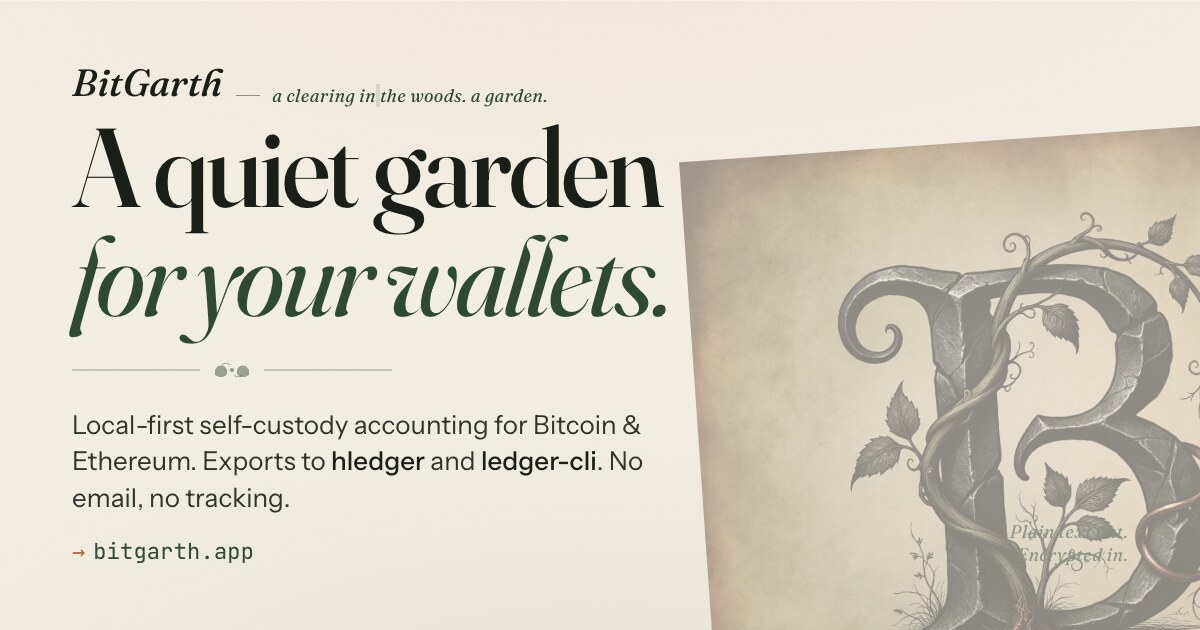
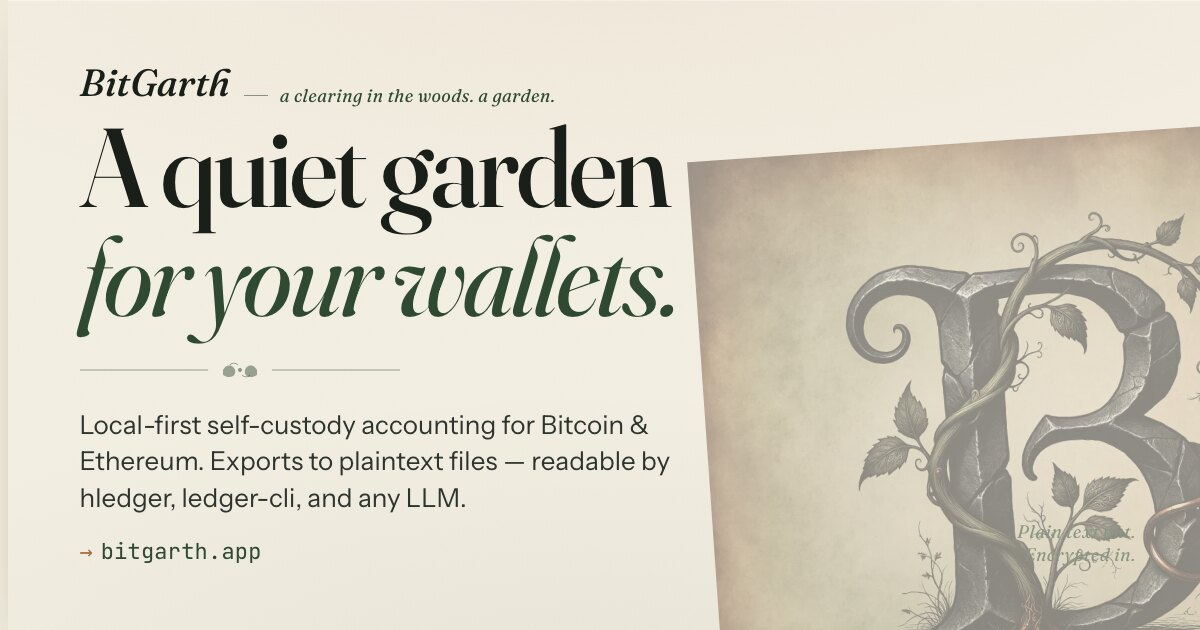
Update og description

diff --git a/index.html b/index.html
@@ -14,7 +14,7 @@
   <meta property="og:site_name" content="BitGarth" />
   <meta property="og:url" content="https://bitgarth.app/" />
   <meta property="og:title" content="BitGarth — a quiet garden for your wallets" />
-  <meta property="og:description" content="Local-first self-custody accounting for Bitcoin and Ethereum. Exports to hledger and ledger-cli. No email required for the app." />
+  <meta property="og:description" content="Local-first self-custody accounting for Bitcoin &amp; Ethereum. Exports to plaintext files — readable by hledger, ledger-cli, and any LLM." />
   <meta property="og:image" content="https://bitgarth.app/assets/og-card.jpg" />
   <meta property="og:image:type" content="image/jpeg" />
   <meta property="og:image:width" content="1200" />
@@ -26,7 +26,7 @@
   <meta name="twitter:card" content="summary_large_image" />
   <meta name="twitter:site" content="@BitGarth" />
   <meta name="twitter:title" content="BitGarth — a quiet garden for your wallets" />
-  <meta name="twitter:description" content="Local-first self-custody accounting for Bitcoin and Ethereum. Exports to hledger and ledger-cli. No email required for the app." />
+  <meta name="twitter:description" content="Local-first self-custody accounting for Bitcoin &amp; Ethereum. Exports to plaintext files — readable by hledger, ledger-cli, and any LLM." />
   <meta name="twitter:image" content="https://bitgarth.app/assets/og-card.jpg" />
   <meta name="twitter:image:alt" content="BitGarth — a quiet garden for your wallets" />
 

diff --git a/og-assets.html b/og-assets.html
@@ -821,8 +821,8 @@
           </svg>
         </div>
         <p class="tagline">
-          Privacy-conscious self-custody transaction sync for Bitcoin &amp; Ethereum.
-          Exports to AI-friendly plaintext accounting files.
+          Local-first self-custody accounting for Bitcoin &amp; Ethereum.
+          Exports to plaintext files — readable by hledger, ledger-cli, and any LLM.
         </p>
       </div>
 